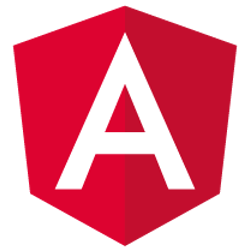
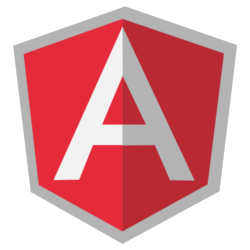
change angularjs pic + control page contact

diff --git a/src/contact.php b/src/contact.php
@@ -8,18 +8,24 @@
 
 $data = json_decode(file_get_contents("php://input"));
 
-$to = "ale.pericolo@gmail.com";
+if (json_last_error() == JSON_ERROR_NONE){
 
-$subject = $data->subject;
+    $to = "ale.pericolo@gmail.com";
 
-$message = $data->message.'<br><br>';
-$message .= "From: ".$data->email .'<br>';
-$message .= "Send by: alessandropericolo14.altervista.org".'<br><br><br>';
+    $subject = $data->subject;
 
-$headers  = 'MIME-Version: 1.0' . "\r\n";
-$headers .= 'Content-type: text/html; charset=iso-8859-1' . "\r\n";
-$headers .= 'From: alessandropericolo14@altervista.org'. "\r\n";
-$headers .= 'X-Mailer: PHP/' . phpversion();
+    $message = $data->message.'<br><br>';
+    $message .= "From: ".$data->email .'<br>';
+    $message .= "Send by: alessandropericolo14.altervista.org".'<br><br><br>';
 
-//php mail function to send email on your email address
-return mail($to, $subject, $message, $headers);
+    $headers  = 'MIME-Version: 1.0' . "\r\n";
+    $headers .= 'Content-type: text/html; charset=iso-8859-1' . "\r\n";
+    $headers .= 'From: alessandropericolo14@altervista.org'. "\r\n";
+    $headers .= 'X-Mailer: PHP/' . phpversion();
+
+    //php mail function to send email on your email address
+    return mail($to, $subject, $message, $headers);
+
+}else{
+    echo 'error';
+}
